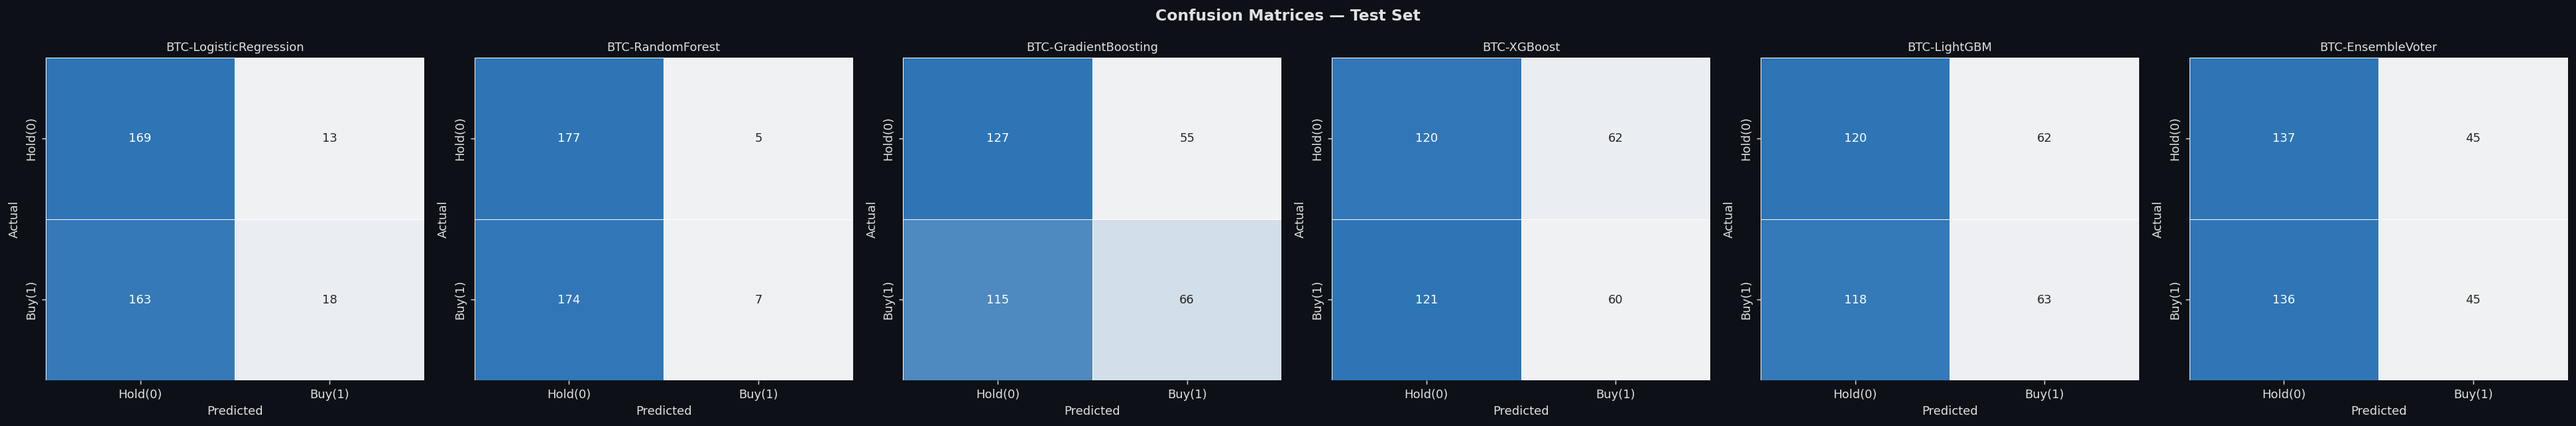
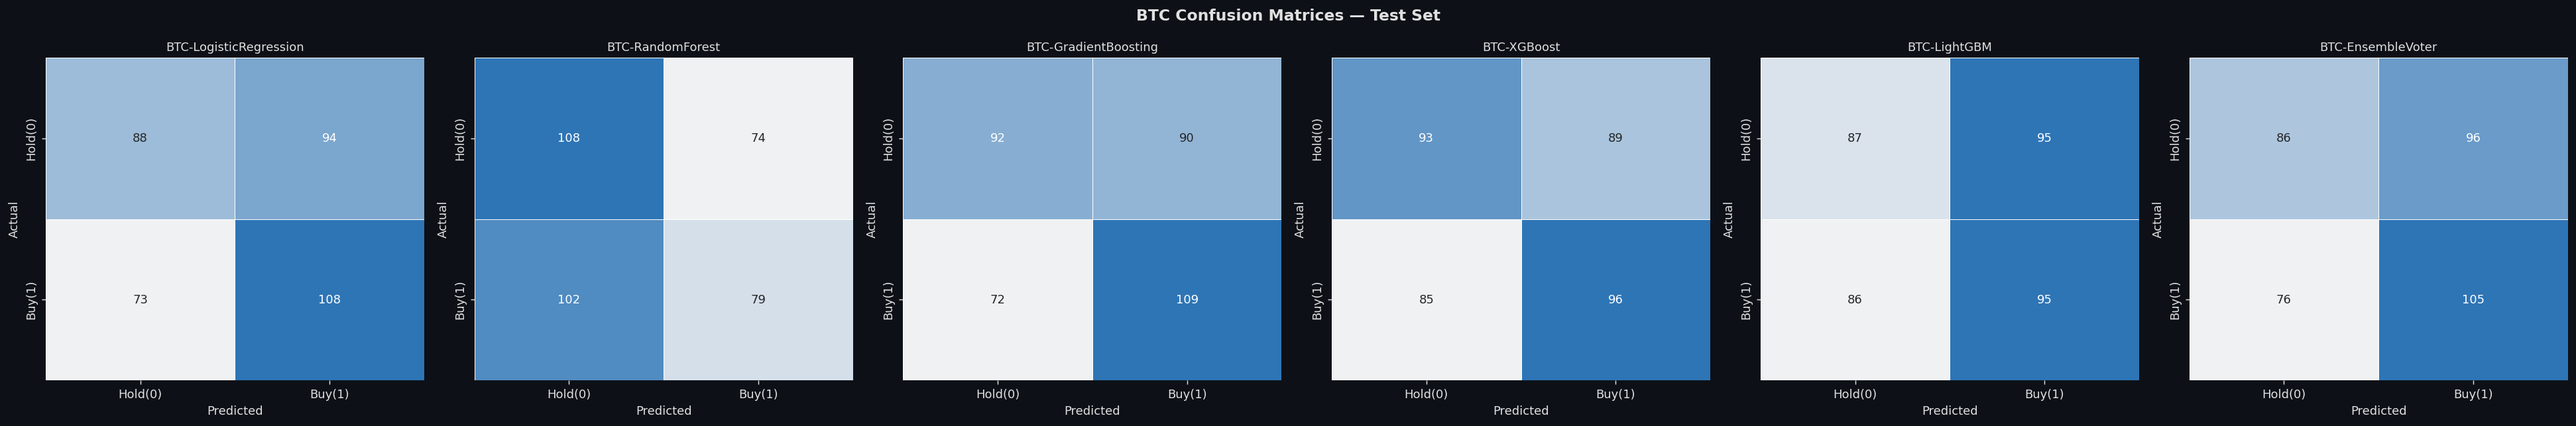
fix(pipeline): resolve cum_strat keyerror and tune cutoffs for higher recall
- Fixed a KeyError when running pipeline as a standalone script (expected 17 return values, got 14).
- Replaced 'cum_strat' column reference in standalone Plot 7 builder with 'cum_portfolio'.
- Updated 'find_optimal_cutoff' to add a scoring bonus for probability cutoffs that yield Recall >= 40% and Precision >= 55% during validation sweeps.

diff --git a/btc_signal_pipeline.py b/btc_signal_pipeline.py
@@ -752,9 +752,11 @@ def find_optimal_cutoff(
     best_cutoff  = 0.50
     cutoffs      = np.arange(sweep_start, sweep_end + step / 2, step)
     fee_rate_opt = 0.001   # 10 bps for optimisation
+    
+    valid_cutoffs = []
 
     for cutoff in cutoffs:
-        signal   = (proba >= cutoff).astype(float)
+        signal   = (proba >= cutoff).astype(int)
         buy_rate = signal.mean()
         if buy_rate < 0.03 or buy_rate > 0.95:
             continue
@@ -766,13 +768,27 @@ def find_optimal_cutoff(
         if std_ret < 1e-8:
             continue
         sharpe = net_ret.mean() / std_ret * np.sqrt(252)
+        
+        bp = precision_score(y_val, signal, zero_division=0)
+        br = recall_score(y_val, signal, zero_division=0)
+        
+        # We want to encourage Recall > 40% and Precision > 55%
+        # We add a small artificial boost to the 'sharpe' score for sorting,
+        # so that cutoffs meeting these criteria are heavily preferred.
+        score = sharpe
+        if br >= 0.40: score += 1.0
+        if bp >= 0.55: score += 1.0
+        
+        valid_cutoffs.append((cutoff, score, bp, br, sharpe))
 
-        if sharpe > best_sharpe:
-            best_sharpe = sharpe
-            best_cutoff = cutoff
+    if valid_cutoffs:
+        valid_cutoffs.sort(key=lambda x: x[1], reverse=True)
+        best_cutoff, _, bp, br, best_sharpe = valid_cutoffs[0]
+    else:
+        # Fallback if loop failed completely
+        best_cutoff = 0.50
+        bp, br, best_sharpe = 0, 0, 0
 
-    bp = precision_score(y_val, (proba >= best_cutoff).astype(int), zero_division=0)
-    br = recall_score(y_val,    (proba >= best_cutoff).astype(int), zero_division=0)
     print(f"[Cutoff] {model_name} Sharpe-optimal cutoff = {best_cutoff:.2f}  "
           f"(P: {bp:.2f}, R: {br:.2f}, val Sharpe: {best_sharpe:.3f})")
     return round(float(best_cutoff), 2)
@@ -1662,15 +1678,19 @@ def plot_all(df, metrics_df, backtests, bt_rf, imp_df, features, models,
                       color=TEXT, fontsize=14, fontweight="bold")
 
         strat_ret = portfolio_bt.attrs.get("strat_return", 0)
-        bnh_ret   = portfolio_bt.attrs.get("btc_bnh", 0)  # using custom bnh reference from attrs
+        btc_bnh   = portfolio_bt.attrs.get("btc_bnh", 0)
+        eth_bnh   = portfolio_bt.attrs.get("eth_bnh", 0)
+        bnh_ret   = (btc_bnh + eth_bnh) / 2  # Simple 50/50 return for benchmark label
 
         # Plot Strategy
-        ax7.plot(portfolio_bt.index, portfolio_bt["cum_strat"],
+        ax7.plot(portfolio_bt.index, portfolio_bt["cum_portfolio"],
                  color=CYAN, lw=2.5, label=f"Portfolio Strategy ({strat_ret:+.1%})")
 
-        # Plot Blended B&H
-        ax7.plot(portfolio_bt.index, portfolio_bt["cum_bht"],
-                 color=RED, lw=2.0, ls="--", label=f"Blended Buy&Hold ({bnh_ret:+.1%})")
+        # Plot Blended B&H (50% BTC + 50% ETH daily returns compounded)
+        daily_blended_bnh = (portfolio_bt["ret_btc"] * 0.5 + portfolio_bt["ret_eth"] * 0.5)
+        cum_blended_bnh = (1 + daily_blended_bnh.fillna(0)).cumprod()
+        ax7.plot(portfolio_bt.index, cum_blended_bnh,
+                 color=RED, lw=2.0, ls="--", label=f"Blended 50/50 Buy&Hold ({bnh_ret:+.1%})")
 
         ax7.axhline(1.0, color=TEXT, lw=0.6, alpha=0.35, ls=":")
         ax7.set_ylabel("Cumulative Return (×1)", fontsize=10)
@@ -1876,4 +1896,6 @@ def main(test_start: str = "2025-01-01"):
 if __name__ == "__main__":
     (df_btc, df_eth, models_btc, models_eth, scaler_btc, scaler_eth,
      metrics_btc, metrics_eth, backtests_btc, portfolio_bt,
-     prediction_btc, prediction_eth, lr_coef_df, lr_formula) = main()
+     prediction_btc, prediction_eth, lr_coef_df, lr_formula,
+     best_btc_cutoff, best_eth_cutoff,
+     backtests_eth) = main()
